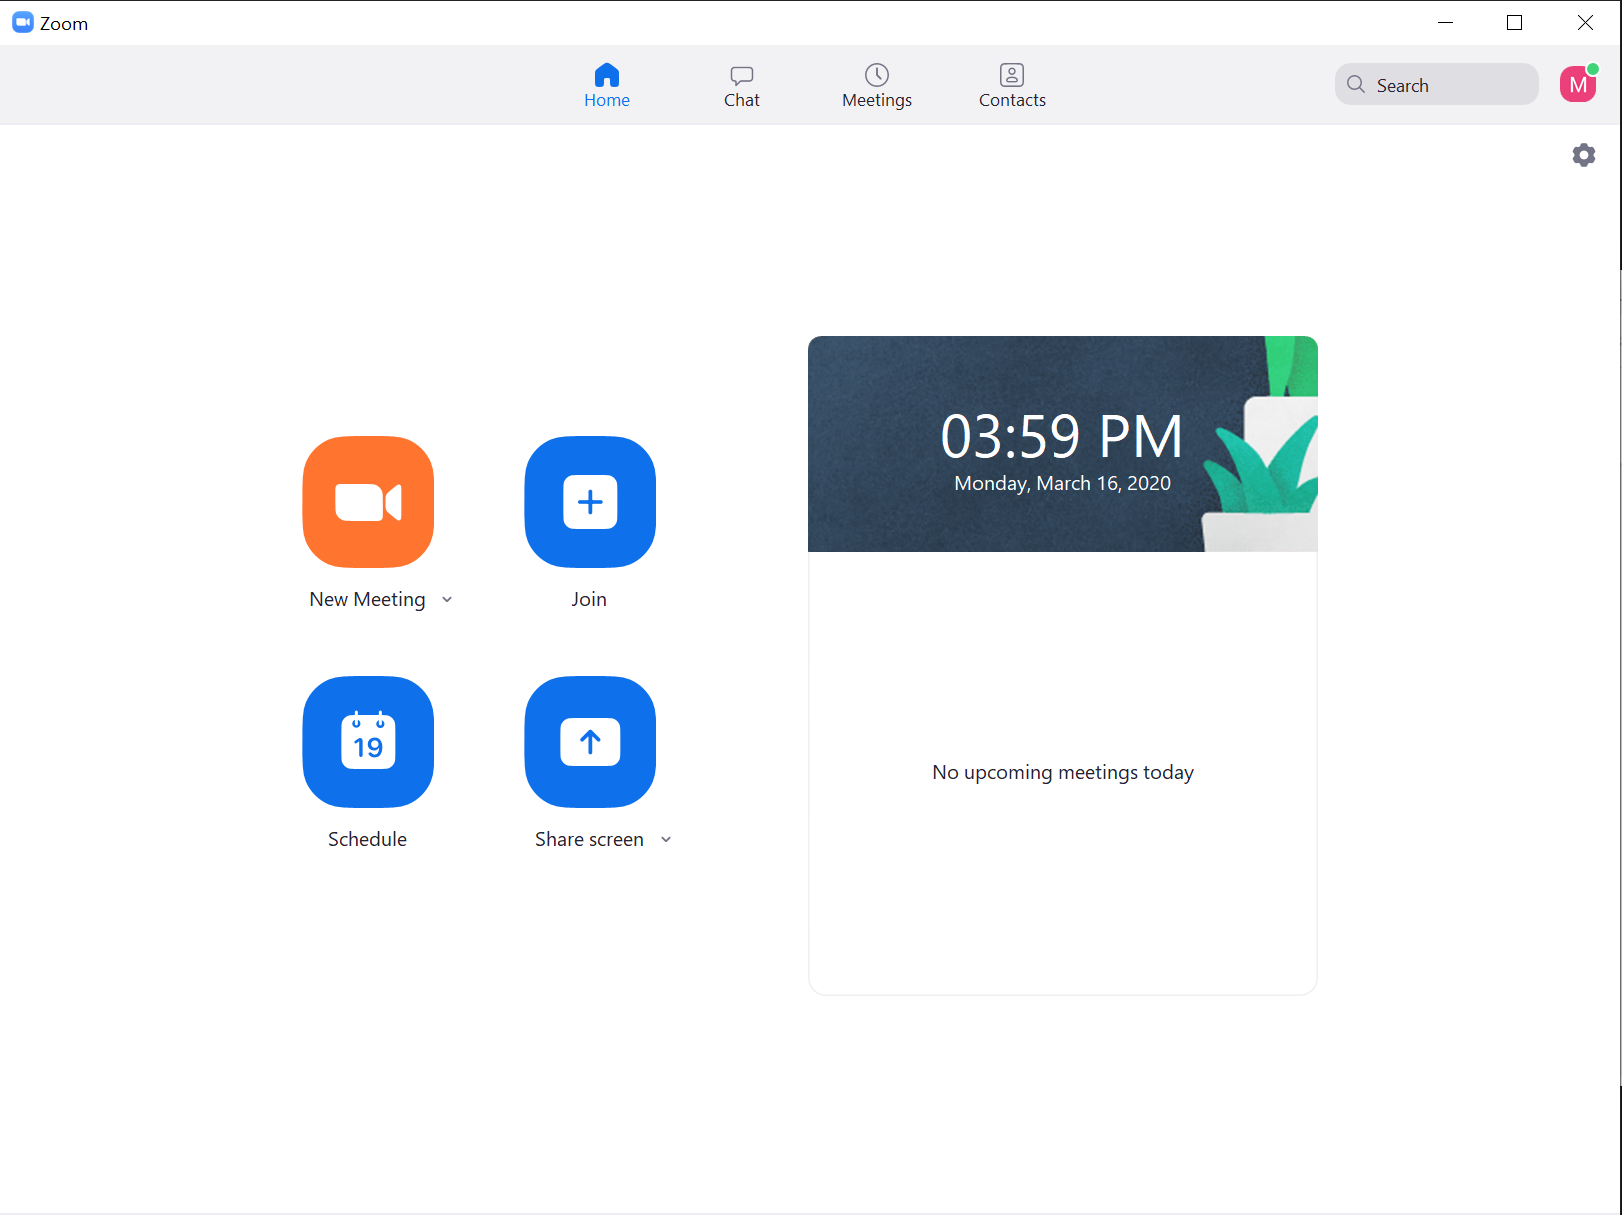
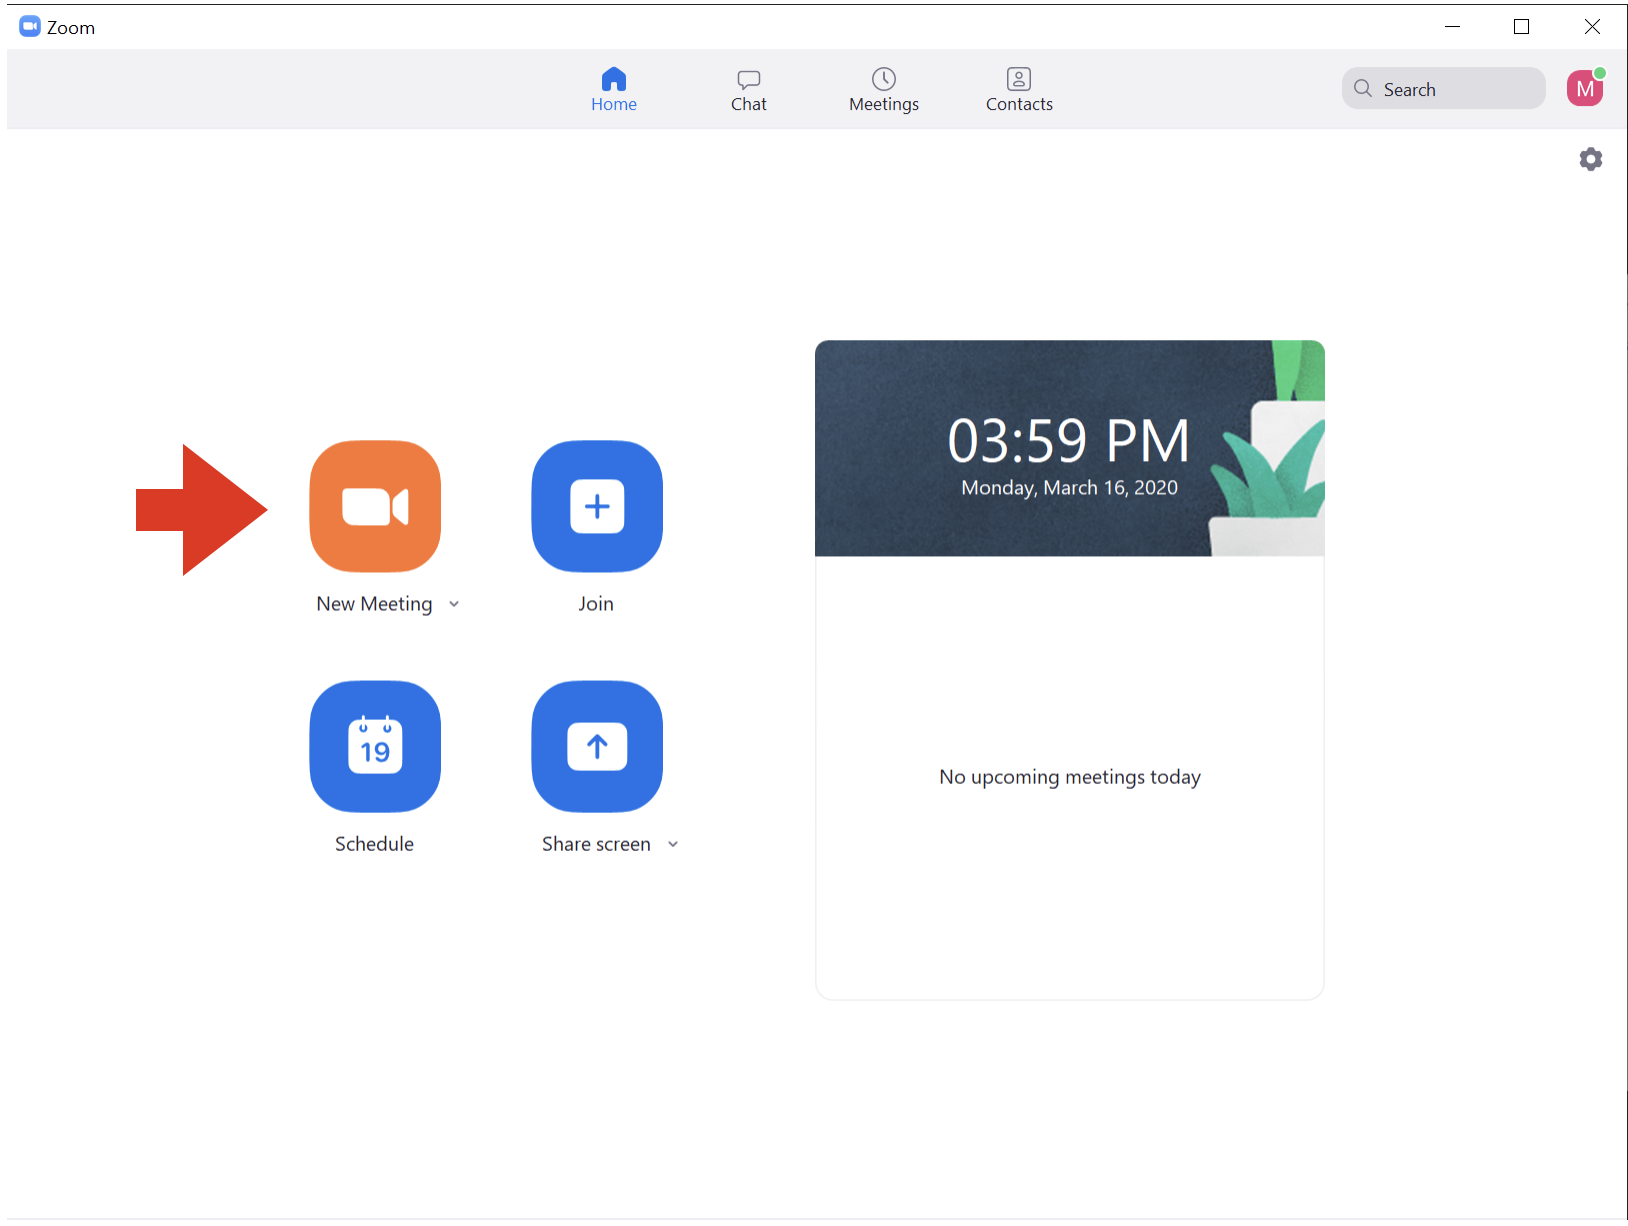
zoom training

diff --git a/zoom/index.html b/zoom/index.html
@@ -5,7 +5,7 @@
 	<meta charset="utf-8">
 	<meta name="viewport" content="width=device-width, initial-scale=1.0, maximum-scale=1.0, user-scalable=no">
 
-	<title>Introdcution to Zoom</title>
+	<title>Introduction to Zoom</title>
 
 	<link rel="stylesheet" href="css/reset.css">
 	<link rel="stylesheet" href="css/reveal.css">
@@ -27,6 +27,8 @@
 <body>
 	<div class="reveal">
 		<div class="slides">
+			<section><br>SFAI Zoom Training</section>
+
 			<section><img src="img/z1.png" height="400"><br>Zoom is a remote conferencing services that combines
 				video conferencing, online meetings, chat, and mobile collaboration.</section>
 			<section><br>
@@ -56,12 +58,87 @@
 					<li class="fragment">Download 'Zoom Client for Meetings' and install it</a></li>
 				</ul>
 			</section>
-			<section><img src="img/1.PNG" height="300"></section>
-			<section><img src="img/2.PNG" height="300"></section>
-			<section><img src="img/3a.PNG" height="300"></section>
-			<section><img src="img/3b.PNG" height="300"></section>
-			<section><img src="img/3c.PNG" height="300"></section>
-			<section><img src="img/3d.PNG" height="300"></section>
+			<section><img src="img/1.PNG" height="300"><br>When you first launch Zoom sign in with Google</section>
+			<section><img src="img/2.PNG" height="300"><br>Make sure to sign in with your SFAI account</section>
+			<section><img src="img/3.PNG" height="300"><br>You will be redirected to your webbrowser to login in,
+				then
+				Open Zoom.</section>
+			<section><img src="img/3a.PNG" height="300"><br>In the opening Zoom window
+				start with new meeting. We will talk about scheduling one a little bit later</section>
+			<section><img src="img/3e.PNG" height="300"><br>After starting a new meeting you have the option of
+				testing
+				your audio setup. Afterwards choose 'Join With Computer Audio'</section>
+			<section><img src="img/tba.png" height="300"><br>Hitting start video on the bottom toolbar will start
+				the
+				video
+				session</section>
+			<section><img src="img/tb.png">The toolbar at the bottom of the Zoom window is important to understand
+				so
+				let walk through it's functions</section>
+			<section><img src="img/tb1.png" height="300"><br>Join Audio gives you the option to adjust your Mic and
+				Speaker
+				settings </section>
+			<section><img src="img/tb3.png" height="300"><br>The video button allows you to start, stop, adjust
+				your
+				video settings and use virtual backgrounds</section>
+			<section><img src="img/inv1.png" height="300"><br>The invite button allows you to invite participants
+			</section>
+			<section><img src="img/inv2.png" height="300"><br>In the contact view, all SFAI staff Faculty and
+				students
+				are listed
+			</section>
+			<section><img src="img/inv3.png" height="300"><br>On the email tab you can compose an email to send out
+				from
+				your default email client
+			</section>
+			<section><img src="img/inv4.png" height="300"><br>You can also copy and paste the meeting URL or more
+				detailed invite and past it into an email or document i.e Moodle
+			</section>
+			<section><img src="img/ss.png" height="300"><br>Share screen allows you to share your screen with
+				participants
+			</section>
+			<section><img src="img/ss1.png" height="300"><br>You can choose to share your entire desktop
+			</section>
+			<section><img src="img/ss2.png" height="300"><br>A shared whiteboard
+			</section>
+			<section><img src="img/ss3.png" height="300"><br>Or an individual window
+			</section>
+			<section><img src="img/mp.png" height="300"><br>Manage partipants allows gives you option for individual
+				participants
+			</section>
+			<section><img src="img/mp1.png" height="300"><br>You can mute individual audio or video
+			</section>
+			<section><img src="img/mp2.png" height="300"><br>You can also promote them to the host, rename or
+				remove
+				them
+			</section>
+			<section><img src="img/c.png" height="300"><br>Chat opens a chat window on the side
+			</section>
+			<section><img src="img/c1.png" height="300"><br>You can post text and links here
+			</section>
+			<section><img src="img/c2.png" height="300"><br>At the bottom you can choose who you are chatting with,
+				eveyone or individuals
+			</section>
+			<section><img src="img/c3.png" height="300"><br>You can also save the chat history and set options for
+				whom
+				others are allowed to chat with.
+			</section>
+			<section><img src="img/r.png"><br>Record allows you to record the meeting to either your computer or the
+				Zoom cloud. You have limited storage on the Zoom cloud. Consider saving to you computer and sharing
+				as a
+				google drive link.
+			</section>
+			<section>
+				<a href="https://support.zoom.us/hc/en-us/sections/201740096-Training">The Zoom training center
+					offers
+					extensive video tutorials</a>
+			</section>
+			<section>
+				We are here to support your online efforts, please email support@sfai.edu for assistance
+			</section>
+
+
+
 		</div>
 	</div>
 
